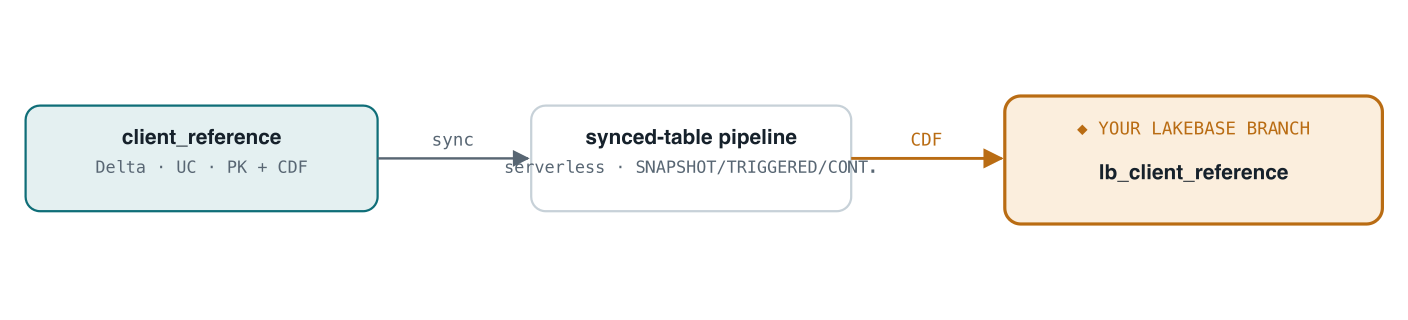
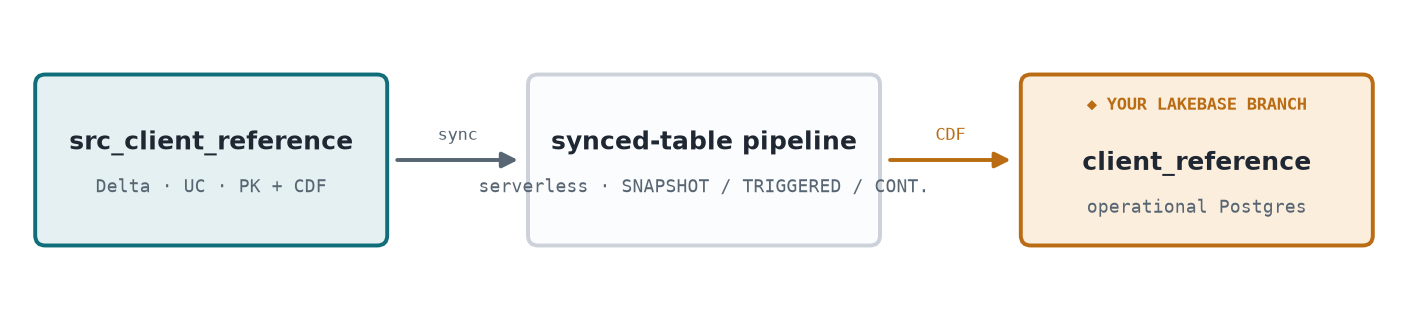
Ex6/Ex7: redraw diagrams to match current state (real PNGs)
Replace the two stale/half-fixed diagrams with accurate PNGs in the same house
style as the other exercises' diagrams, and add the generator so they stay
maintainable.

- Ex6: redraws the sync flow with the CURRENT table names — Delta
  src_client_reference -> synced-table pipeline -> Lakebase client_reference
  (the lb_ prefix was dropped in the earlier Ex6 fix). Removed the disclaimer
  note since the diagram is now correct.
- Ex7: replaces the temporary Mermaid (and the earlier stale watermark-extract
  PNG) with a real PNG of the actual flow: Lakebase positions/limits (REPLICA
  IDENTITY FULL) -> Lakebase CDF auto-creates lb_*_history Delta in Unity
  Catalog -> Lakeflow AUTO CDC applies SCD Type 1 into *_current tables.
- scripts/diagrams/build_diagrams.py regenerates both from a sampled palette
  (teal = lakehouse/Delta, orange = Lakebase, gray = infra), 1408px wide to
  match the existing diagrams.

diff --git a/scripts/diagrams/build_diagrams.py b/scripts/diagrams/build_diagrams.py
@@ -1,0 +1,116 @@
+#!/usr/bin/env python3
+"""Regenerate the Ex6 / Ex7 architecture diagrams as PNGs.
+
+These two round-trip diagrams are kept in sync with the current labs here (the
+other exercises' diagrams were produced earlier and embedded as-is). Style is
+matched to those: white ground, teal for lakehouse/Delta artifacts, orange for
+Lakebase, gray for infrastructure, monospace sub-labels.
+
+    python scripts/diagrams/build_diagrams.py
+
+Requires matplotlib. Writes:
+    labs/06-delta-to-lakebase-sync/images/ex6-delta-sync.png
+    labs/07-lakebase-cdf-to-scd1/images/ex7-cdf-scd1.png
+"""
+import os
+import matplotlib
+matplotlib.use("Agg")
+import matplotlib.pyplot as plt
+from matplotlib.patches import FancyBboxPatch, FancyArrowPatch
+
+REPO = os.path.abspath(os.path.join(os.path.dirname(__file__), "..", ".."))
+
+# ── palette (sampled from the existing diagrams) ───────────────────────────
+BG          = "#ffffff"
+TEAL_EDGE   = "#0f6e78"; TEAL_FILL   = "#e4f0f1"
+ORANGE_EDGE = "#b96c13"; ORANGE_FILL = "#fbeedd"
+GRAY_EDGE   = "#cdd2da"; GRAY_FILL   = "#fbfcfd"
+TITLE       = "#1f2733"
+SUB         = "#586673"
+ARROW_GRAY  = "#586673"
+ARROW_ORANGE= "#b96c13"
+
+KIND = {
+    "teal":   (TEAL_EDGE,   TEAL_FILL),
+    "orange": (ORANGE_EDGE, ORANGE_FILL),
+    "gray":   (GRAY_EDGE,   GRAY_FILL),
+}
+
+
+def box(ax, x, y, w, h, kind, title, sub=None, caption=None):
+    """Rounded box centered at (x, y). Optional orange caption line at the top."""
+    edge, fill = KIND[kind]
+    ax.add_patch(FancyBboxPatch(
+        (x - w / 2, y - h / 2), w, h,
+        boxstyle="round,pad=0,rounding_size=0.10",
+        linewidth=2.2, edgecolor=edge, facecolor=fill, mutation_aspect=1))
+    top = y + h / 2
+    ty = y + h * 0.10
+    if caption:
+        ax.text(x, top - h * 0.18, caption, ha="center", va="center",
+                family="monospace", fontsize=9.5, color=ORANGE_EDGE, weight="bold")
+        ty = y - h * 0.02
+    ax.text(x, ty, title, ha="center", va="center",
+            fontsize=14, color=TITLE, weight="bold")
+    if sub:
+        ax.text(x, ty - h * 0.26, sub, ha="center", va="center",
+                family="monospace", fontsize=10, color=SUB)
+
+
+def arrow(ax, x0, x1, y, label, color):
+    ax.add_patch(FancyArrowPatch(
+        (x0, y), (x1, y), arrowstyle="-|>", mutation_scale=18,
+        linewidth=2.2, color=color, shrinkA=0, shrinkB=0))
+    ax.text((x0 + x1) / 2, y + 0.16, label, ha="center", va="bottom",
+            family="monospace", fontsize=9.5, color=color)
+
+
+def canvas(w_px, h_px):
+    fig = plt.figure(figsize=(w_px / 128, h_px / 128), dpi=128)
+    ax = fig.add_axes([0, 0, 1, 1]); ax.set_facecolor(BG)
+    fig.patch.set_facecolor(BG)
+    ax.set_xlim(0, 14); ax.set_ylim(0, 14 * h_px / w_px)
+    ax.axis("off")
+    return fig, ax
+
+
+def save(fig, rel):
+    out = os.path.join(REPO, rel)
+    os.makedirs(os.path.dirname(out), exist_ok=True)
+    fig.savefig(out, dpi=128, facecolor=BG)
+    plt.close(fig)
+    print("wrote", rel)
+
+
+def build_ex6():
+    fig, ax = canvas(1408, 320); yc = ax.get_ylim()[1] / 2
+    bw, bh = 3.5, 1.7
+    box(ax, 2.1, yc, bw, bh, "teal",   "src_client_reference", "Delta · UC · PK + CDF")
+    box(ax, 7.0, yc, bw, bh, "gray",   "synced-table pipeline", "serverless · SNAPSHOT / TRIGGERED / CONT.")
+    box(ax, 11.9, yc, bw, bh, "orange", "client_reference", "operational Postgres",
+        caption="◆ YOUR LAKEBASE BRANCH")
+    arrow(ax, 3.95, 5.15, yc, "sync", ARROW_GRAY)
+    arrow(ax, 8.85, 10.05, yc, "CDF", ARROW_ORANGE)
+    save(fig, "labs/06-delta-to-lakebase-sync/images/ex6-delta-sync.png")
+
+
+def build_ex7():
+    fig, ax = canvas(1408, 336); yc = ax.get_ylim()[1] / 2
+    bw, bh = 3.35, 1.95
+    box(ax, 1.9, yc, bw, bh, "orange", "positions · limits", "REPLICA IDENTITY FULL",
+        caption="◆ YOUR LAKEBASE BRANCH")
+    box(ax, 7.0, yc, bw, bh, "teal", "lb_positions_history", "lb_limits_history · Delta")
+    box(ax, 12.1, yc, bw, bh, "teal", "positions_current", "limits_current · SCD Type 1")
+    arrow(ax, 3.7, 5.2, yc, "CDF", ARROW_ORANGE)
+    arrow(ax, 8.8, 10.3, yc, "AUTO CDC", ARROW_GRAY)
+    # small context captions under the two lakehouse boxes
+    ax.text(7.0, yc - bh / 2 - 0.35, "Unity Catalog — auto-created by CDF",
+            ha="center", family="monospace", fontsize=9, color=SUB)
+    ax.text(12.1, yc - bh / 2 - 0.35, "Lakeflow (DLT) AUTO CDC output",
+            ha="center", family="monospace", fontsize=9, color=SUB)
+    save(fig, "labs/07-lakebase-cdf-to-scd1/images/ex7-cdf-scd1.png")
+
+
+if __name__ == "__main__":
+    build_ex6()
+    build_ex7()

diff --git a/labs/07-lakebase-cdf-to-scd1/README.md b/labs/07-lakebase-cdf-to-scd1/README.md
@@ -10,18 +10,7 @@ Catalog Delta tables (`lb_<table>_history`), then runs a **Lakeflow (DLT) pipeli
 Type 1** to produce current-state tables (`positions_current`, `limits_current`) — one row per key,
 latest wins.
 
-```mermaid
-flowchart LR
-    subgraph L["Your Lakebase branch"]
-        OPS["positions · limits<br/>REPLICA IDENTITY FULL<br/>(app mutations)"]
-    end
-    subgraph U["Unity Catalog · your cm_ schema"]
-        HIST["lb_positions_history<br/>lb_limits_history<br/>Delta — auto-created by CDF"]
-        CUR["positions_current<br/>limits_current<br/>SCD Type 1"]
-    end
-    OPS -->|"Lakebase CDF tails the WAL"| HIST
-    HIST -->|"Lakeflow AUTO CDC · stored_as_scd_type=1"| CUR
-```
+![Your Lakebase branch (positions · limits, REPLICA IDENTITY FULL) → Lakebase CDF auto-creates the lb_positions_history / lb_limits_history Delta tables in Unity Catalog → a Lakeflow AUTO CDC pipeline applies SCD Type 1 into positions_current / limits_current](images/ex7-cdf-scd1.png)
 
 This is the **outbound** direction. The Delta→Lakebase *sync* exercise (Ex6) pushes reference data the
 other way; together they're the round trip.

diff --git a/labs/06-delta-to-lakebase-sync/README.md b/labs/06-delta-to-lakebase-sync/README.md
@@ -7,10 +7,7 @@ app, though, needs it **live over Postgres**. A Lakebase **synced table** bridge
 continuously replicates a Unity Catalog Delta table into your Lakebase branch as an operational
 Postgres table — lakehouse-curated data, served at OLTP latency.
 
-![A serverless synced-table pipeline replicates the curated Delta source into your Lakebase branch, kept current over CDF](images/ex6-delta-sync.png)
-
-> *The diagram shows the concept; in the current lab the Delta source is `src_client_reference` and
-> the synced Lakebase table is `client_reference` (the `lb_` prefix was dropped).*
+![The curated Delta table src_client_reference is replicated by a serverless synced-table pipeline into your Lakebase branch as client_reference, kept current over CDF](images/ex6-delta-sync.png)
 
 ## What you'll learn
 - **Reverse ETL with a Lakebase synced table** — Delta (analytical) → Lakebase (operational), managed
